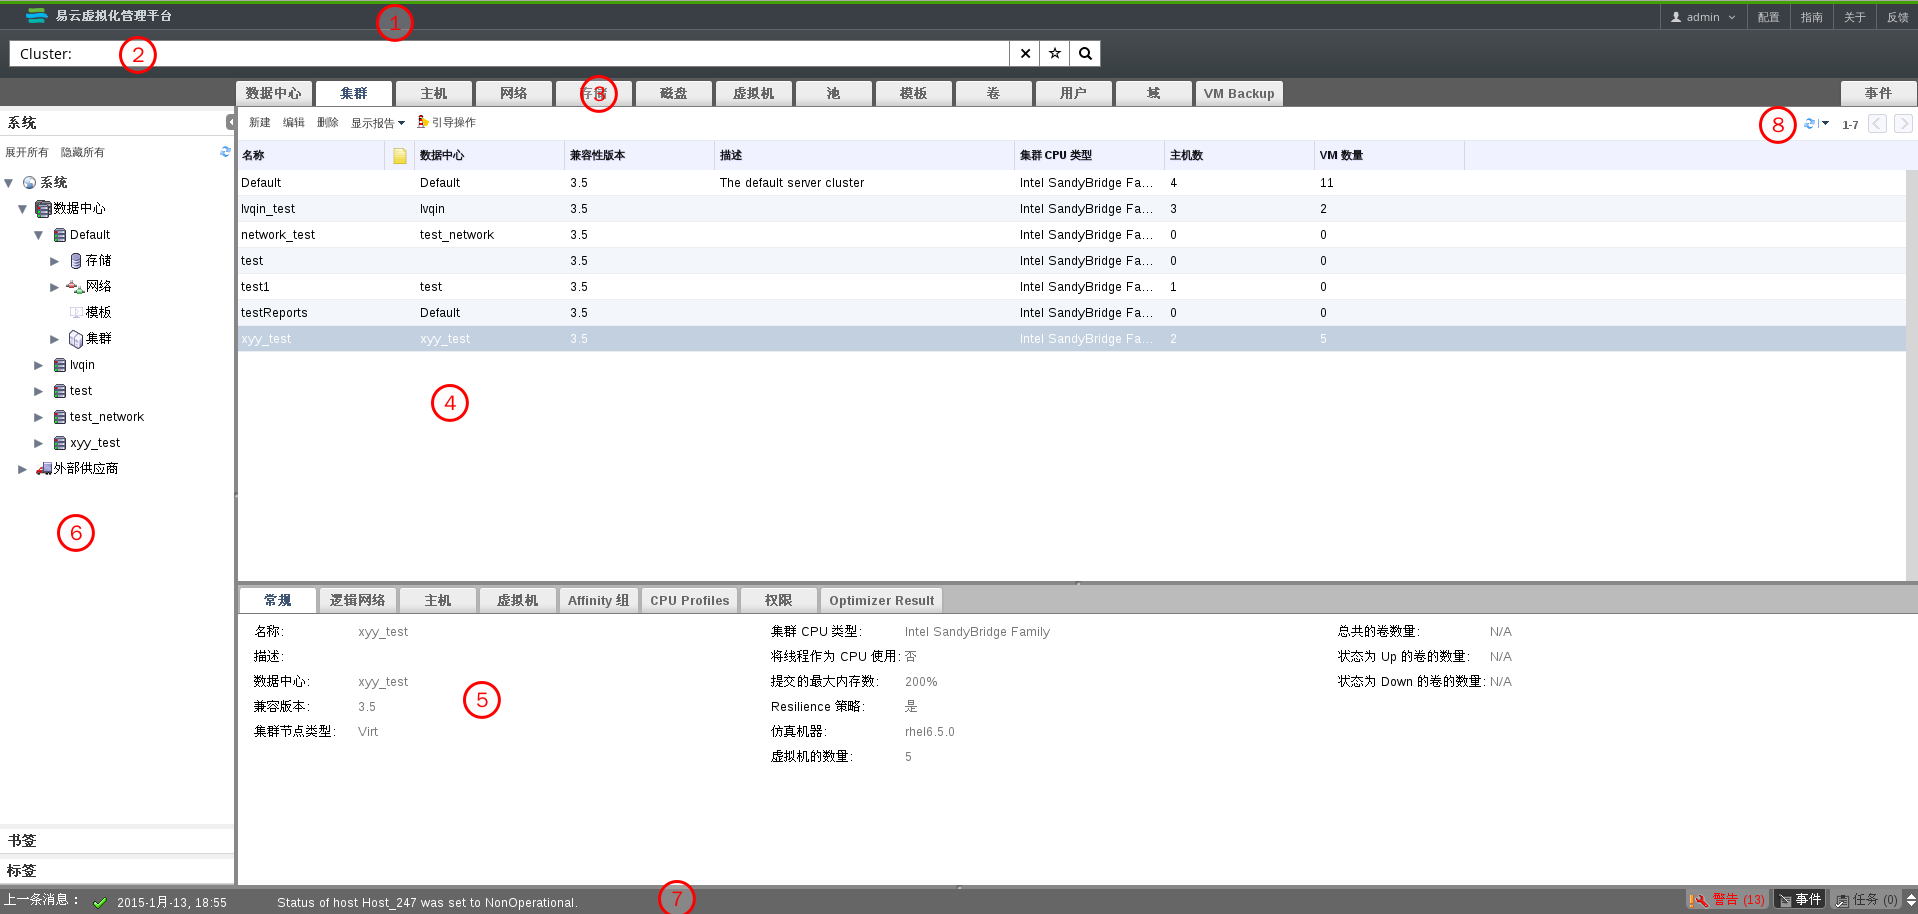
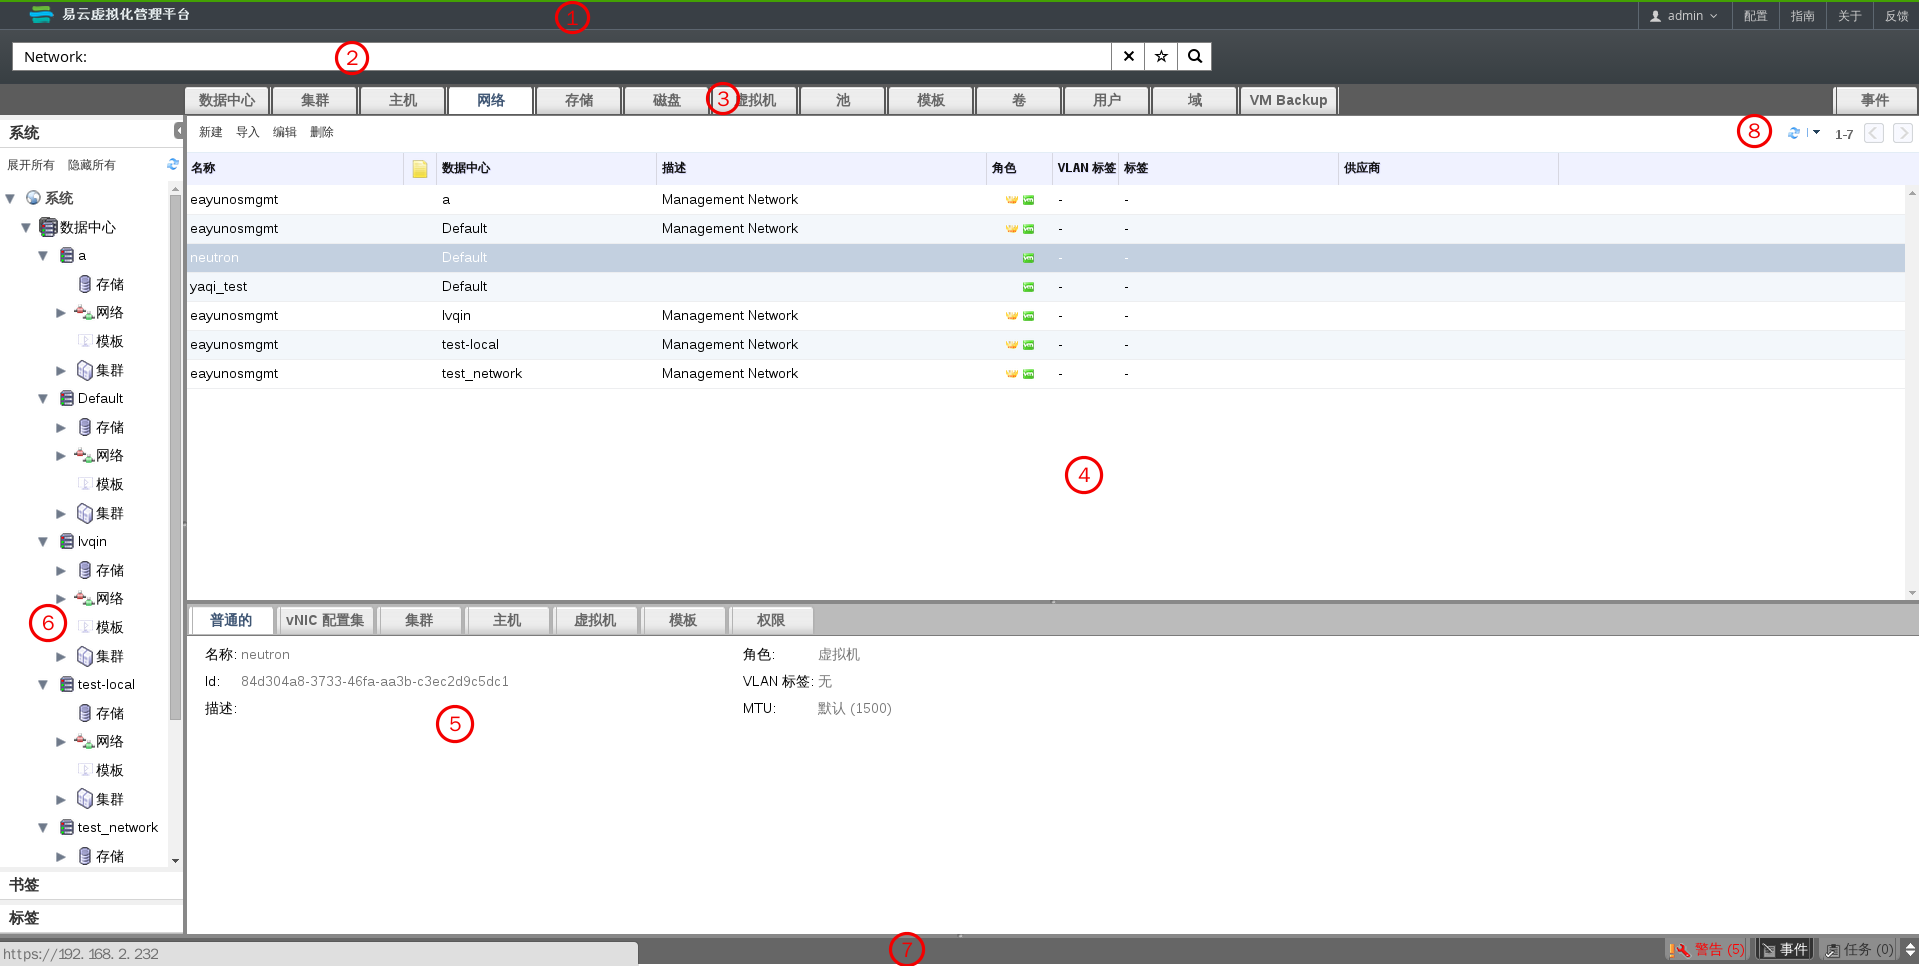
update chapter 2

diff --git a/administration-guide/使用管理员门户/用户图形界面的组成.md b/administration-guide/使用管理员门户/用户图形界面的组成.md
@@ -1,69 +1,41 @@
 # 管理员门户的要素
 
-EayunOS虚拟化管理中心的管理门户由相关联的面板和各种菜单组成。主要有两种使用方式:
-树形模式和扁平模式。树形模式是以数据中心开始的一个树状的结构，你可以在
-这个结构上操作属于该数据中心的一些元素，我们主要推荐使用树状模式来管理
-EayunOS虚拟化管理中心。管理门户的组成元素如下:
+EayunOS 企业级虚拟化的管理门户由相关联的面板和各种菜单组成。主要有两种使用方式：树形模式和平面模式。树形模式是以层次结构显示一个数据中心的内容，而平面结构则在一个单一的列表中显示了数据中心的所有资源。你可以在这个结构上操作属于该数据中心的一些元素，我们主要推荐使用树状模式来管理 EayunOS 虚拟化管理中心。下图显示了用户图形界面的各个元素:
 
 ![要素介绍](../images/elements.png)
 
-**图形界面要素**
+**图形用户界面的主要组成部分**
 
-1.
-**头部栏**
-包括以下元素: 登录用户的名字, **配置**按钮，**指南**按钮,
-**关于**按钮，和**登出**按钮。
-点击**关**于按钮显示简单的系统版本信息，**配置**按钮允许管理
-员配置用户的角色和权限，点击**指南**按钮会打开一个指向  EayunOS 虚拟话管理
-系统使用文档的页面，你可以在上面查找到该系统的使用手册。
+1. **头**
+头包括以了当前登录用户的名称，**登出**按钮，**关于**按钮，**配置**按钮和和**指南**按钮。点击**关于**按钮会显示出 EayunOS 企业级虚拟化的系统版本信息，点击**配置**按钮允许您配置用户的角色，点击**指南**按钮会打开一个链接，即 EayunOS 企业级虚拟化管理系统使用文档的页面，你可以在上面查找到该系统的使用手册。
 
-2.
-**搜索栏**
-在搜索栏这里，你可以搜索到想要的任何资源，比如可以简单的用
-host关键字搜索所有的主机，还可以用更复杂的条件搜索
-更精确的结果。每次输入搜索条件时，内置的搜索引擎打开一个下拉框自动
-提示可能想要搜索的结果。点击搜索栏右边的的星图标，你可以把这次搜索
-保存为书签，方便下次查看。
+2. **搜索栏**
+您可以使用搜索栏来创建搜索条件，例如 EayunOS 企业级虚拟化环境中的主机和集群。您可以用 host 关键字这样简单的字样搜索所有的主机，还可以用更复杂的查询条件来搜索符合特点条件的资源。当您输入搜索条件的每个部分的时候，内置的搜索引擎会打开一个下拉框自动提示可能想要搜索的结果。点击搜索栏右边的的星图标，你可以把这次搜索保存为书签，方便下次查看。
 
-3.**资源标签**
-包括存储，主机等的所有资源，都可以通过主面板上的标签找到。另外,
-**事件**标签所展示的是每个资源的所有事件。
+3. **资源标签**
+所有的资源都可以通过相应的标签进行管理。**事件**标签允许您查看每个资源的事件。管理员门户提供了如下标签：**数据中心**,**集群**，**主机**，**网络**，**存储**，**磁盘**，**虚拟机**，**池**，**模版**，**卷**，**用户**，**域**，**VM Backup**和**事件**。
 
-管理门户提供了以下几类资源标签:** 数据中心**，**集群**，**主机**，**存储**，**磁盘**,
-**虚拟机**，**池**，**模板**，**用户**和**事件**
+4. **结果列表**
+您可以通过在结果列表中选择一项，多项或者所有项，并点击相关按钮来执行某操作。关于选中的资源的一些信息就会在详细信息面板上显示出来。
 
-4.**结果列表**
-如果选中相关的资源，然后在之上执行一个任务，比如创建新的存储，等等。
-关于选中的资源的一些信息就会在详细信息面板上显示出来。
+5. **详细面板**
+详细信息面板显示了在结果列表中选中项的详细信息，如果您没有在结果列表中选择任何一项，这个详情面板是隐藏起来的。如果您在结果列表中选择了多项，那么详情面板将只显示您选择的第一项的详细信息。
 
-5.**详细面板**
-详细信息面板显示选中条目的详细信息，比如选中一个
-存储域，在下方的面板上就会以标签的形式显示该存储域的详细信息，包括
-挂载的数据中心，路径等等。
+6. **系统/书签/标签框**
+“系统面板”以导航层次结构显示了 EayunOS 企业级虚拟化环境中的资源。书签通常用来保存频繁使用或者教复杂的搜索条件以便可以重复使用。您可以增加, 编辑或者删除书签。标签可以应用到资源组中并且可用来搜索所有用这个标签标记了的资源。使用系统/书签/标签面板右上角的箭头可以实现最小化。
 
-6.**树/书签/标签 面板**
-树形面板以树的形式显示了在 EayunOS 虚拟化管理中心的
-所有资源，用户可以在这棵树上导航到任何资源。
+7. **警告/事件框** 
+**警告**标签会列出所有紧急事件, 例如系统的错误和警告信息。**事件**标签可以列出所有资源中的事件。**任务**标签会列出当前运行着的所有任务。您可以通过点击放大/缩小按钮来显示这个面板。
 
-书签通常用来保存频繁使用的搜索条件，标签可以增加, 编辑，或者删除。
-
-标签是一组资源的集合，比如点击存储标签，就会显示 所有的存储资源。
-
-7.**警告/事件 面板**
-点击**警告**标签，会列出所有系统的安全方面的事件, 例如系统的错误和警告信息。
-**事件**标签列出所有资源 的一般事件，比如创建了一个虚拟机等等。**任务**标签会
-列出当前运行的所有任务。通过点击放大/缩小按钮，可以展开这些标签的面板。
-
-8.**刷新间隔**
-可以以秒为单位，设置时间间隔来刷新用户门户。为了避免动作与显示的延迟，无论设置多少时间间隔，刷新操作都会自动进行。可以点击右上的标志来设置刷新间隔。
+8. **刷新间隔**
+您可以通过门户右上方**刷新间隔**下拉菜单来设置时间间隔，它是以秒为单位的。为了避免用户进行一个操作与这个操作被门户所显示之间的时间的延迟，门户会自动对一个操作或者事件进行刷新，而不受所选时间间隔的限制。
 
 > **重要**
 >
-> 在浏览器中，管理门户要求的最小分辨率是 1024x768，如果系统的分辨率
-> 小于这个数值，管理门户的显示可能会有一些问题。
+> 在浏览器中，管理门户要求的最小分辨率是 1024x768。如果系统的分辨率小于这个数值，管理门户的显示可能会有一些问题。
 
 </br>
 > **注意**
 >
->在 EayunOS 虚拟化管理系统 中，管理门户的显示已经被改进。它现在可以在较低的显示分辨率或非最大化窗口中正确显示。当分辨率太低或窗口空间太小，无法显示所有菜单时，您可以通过滚动页，或使用下拉菜单来显示所有的标签页。另外，系统/书签/标签框也可以被最小化。
+>在 EayunOS 4.1 企业级虚拟化中，管理门户的显示已经被改进。它现在可以在较低的显示分辨率或非最大化窗口中正确显示。当分辨率太低或窗口空间太小，无法显示所有菜单时，您可以通过滚动页，或使用下拉菜单来显示所有的标签页。另外，**系统/书签/标签框**也可以被最小化以腾出额外的空间。
 

diff --git a/administration-guide/使用管理员门户/树形模式和平面模式.md b/administration-guide/使用管理员门户/树形模式和平面模式.md
@@ -1,8 +1,6 @@
 # 树形结构和平面视图
 
-EayunOS 虚拟化管理中心提供了两种模式: 树形模式和扁平模式。树形模式把一个数据
-中心的所有资源按照继承的方式显示出来，从最顶层的数据中心到最底层的虚拟机。
-推荐用树形模式来管理 EayunOS 虚拟化管理中心。
+管理员门户提供了两种模式来管理您的资源: 树形模式和平面模式。树形模式会在每个数据中心的层次视图中显示资源，从最高级别的数据中心到最低级别的独立虚拟机。我们推荐用树形模式来进行绝大多数的操作。
 
 ![树形模式](../images/basic-tree-mode.png)
 
